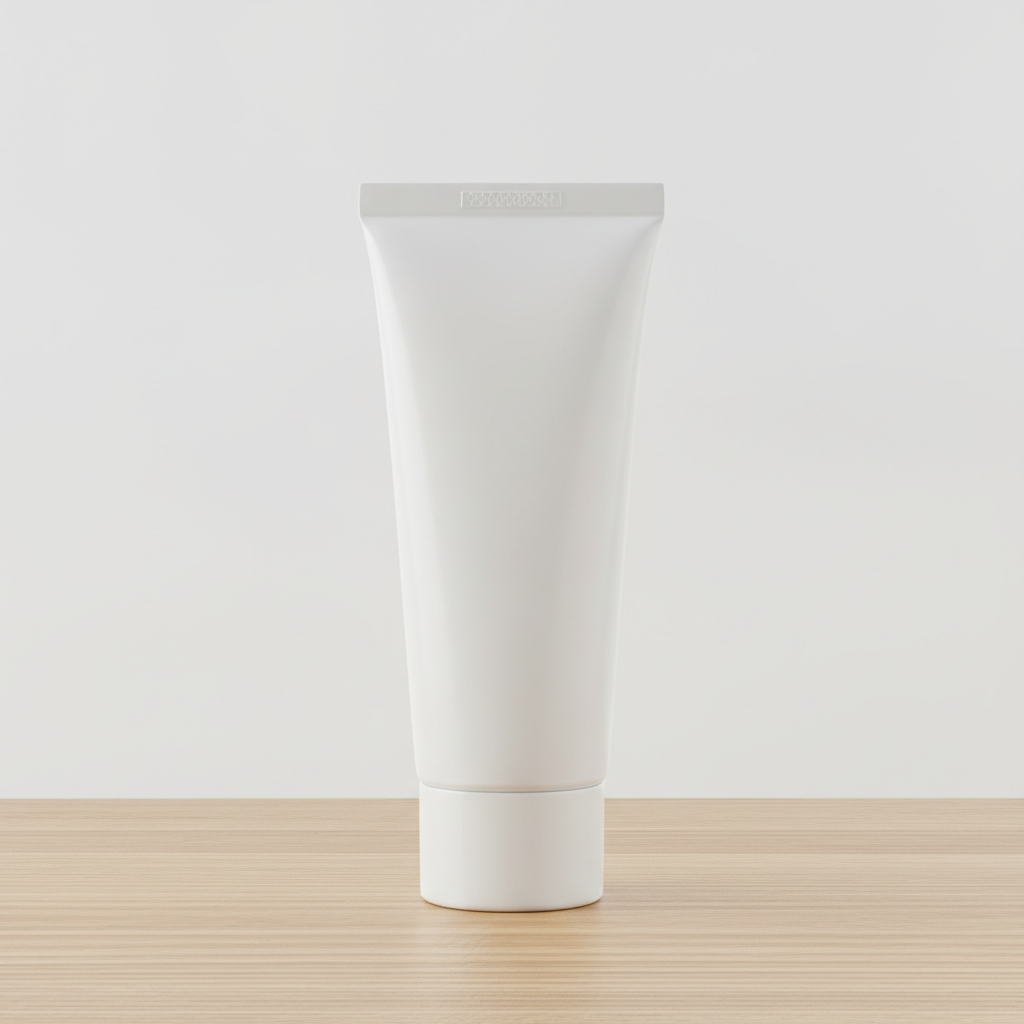
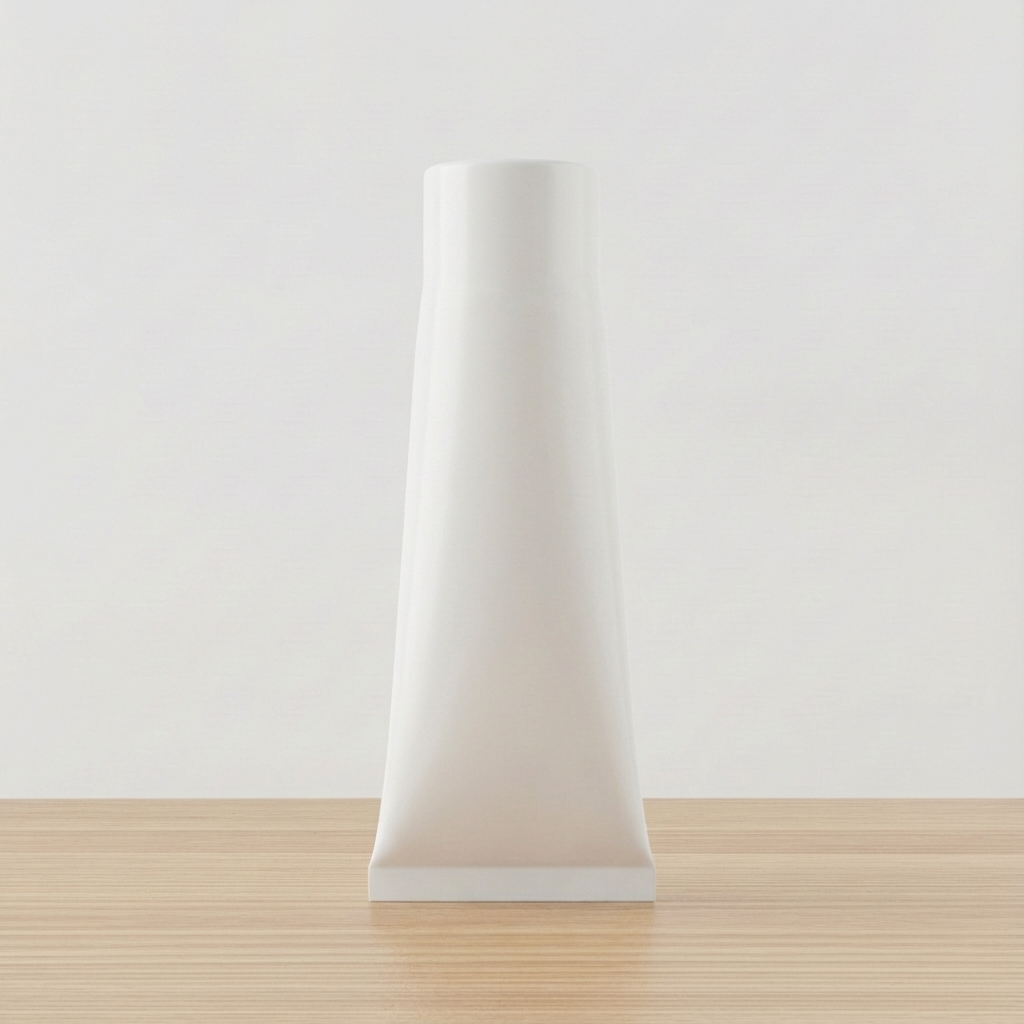
fix paste geometry

diff --git a/src/assets/library/index.ts b/src/assets/library/index.ts
@@ -175,9 +175,9 @@ export const library: LibraryItem[] = [
   {
     id: 16,
     type: "shape",
-    name: "Tapered tube with cylindrical base",
+    name: "Tapered tube with cylindrical top",
     description:
-      "Vertical structure consisting of a short cylindrical base supporting a body that transitions from a circular cross-section to a flattened, wide rectangular seal at the top.",
+      "Vertical structure consisting of a short cylindrical top above a body that transitions from a circular cross-section to a flattened, wide rectangular seal at the bottom.",
     url: shape07,
   },
   {
